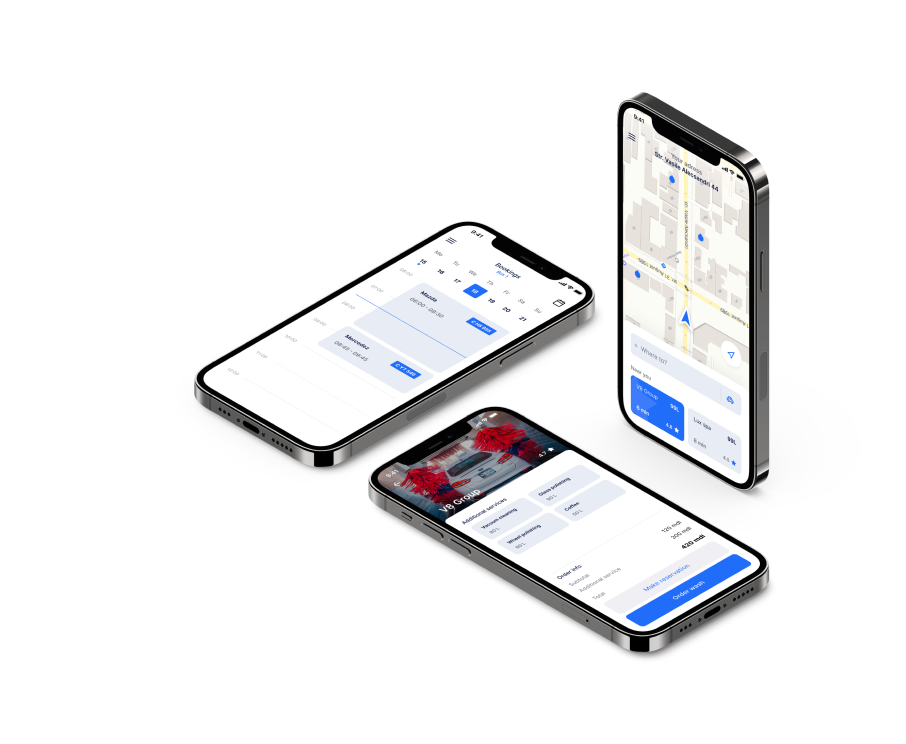
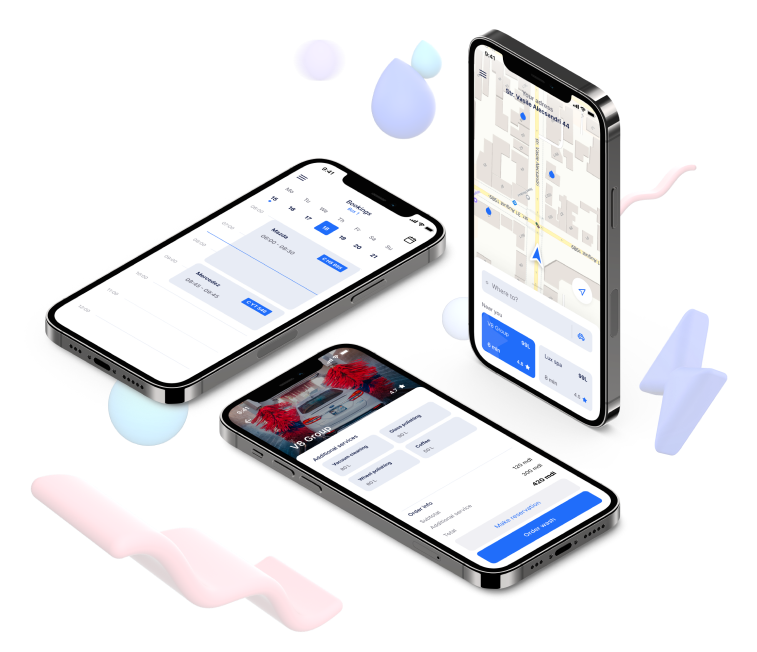
Section 4: Part 4 - Hero

diff --git a/css/style.css b/css/style.css
@@ -14,6 +14,11 @@
 	--text-color-lighter: #f7f8fd;
 }
 
+img {
+	max-width: 100%;
+	object-fit: contain;
+}
+
 a {
 	text-decoration: none;
 }
@@ -109,9 +114,44 @@ button {
 
 /* ? HERO */
 
+.hero{
+	position: relative;
+	padding-top: 147px;
+	padding-bottom: 119px;
+}
+
+.hero__img {
+	position: absolute;
+	right: 0;
+	top: 0;
+	max-height: 100%;
+	width: 63%;
+	height: auto;
+}
+
+.hero__title {
+	width: 620px;
+	margin-top: 0;
+	margin-bottom: 20px;
+}
+
+.hero__title::after {
+	content: "";
+	width: 100px;
+	height: 20px;
+	background-image: url(../img/arrow.svg);
+	background-size: 100%;
+	background-repeat: no-repeat;
+	background-position: center;
+	display: inline-block;
+}
+
 .hero__text {
 	color: var(--text-color-semiDark);
 	font-size: 24px;
+	width: 620px;
+	margin-top: 0;
+	margin-bottom: 60px;
 }
 
 /* ? STEPS  */

diff --git a/index.html b/index.html
@@ -49,7 +49,7 @@
 
                 <button class="hero__btn btn-blue" type="button">Get Access</button>
 
-                <img  src="./img/banner-img.png" class="hero__img" src="" alt="" width="612" height="576" />
+                <img  src="./img/banner-img.png" class="hero__img" src="" alt="" width="940" height="700" />
             </div>
         </section>
 
